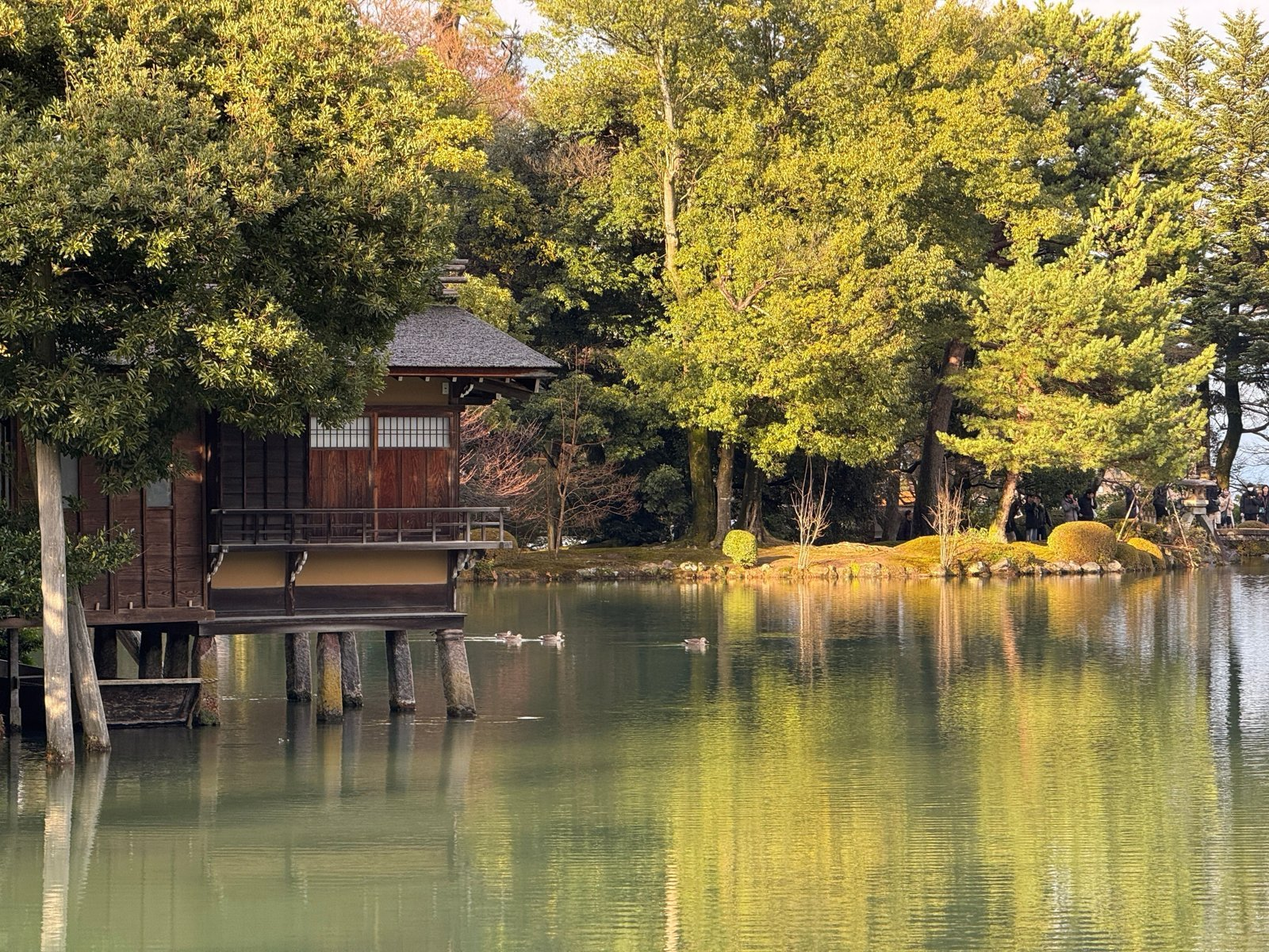
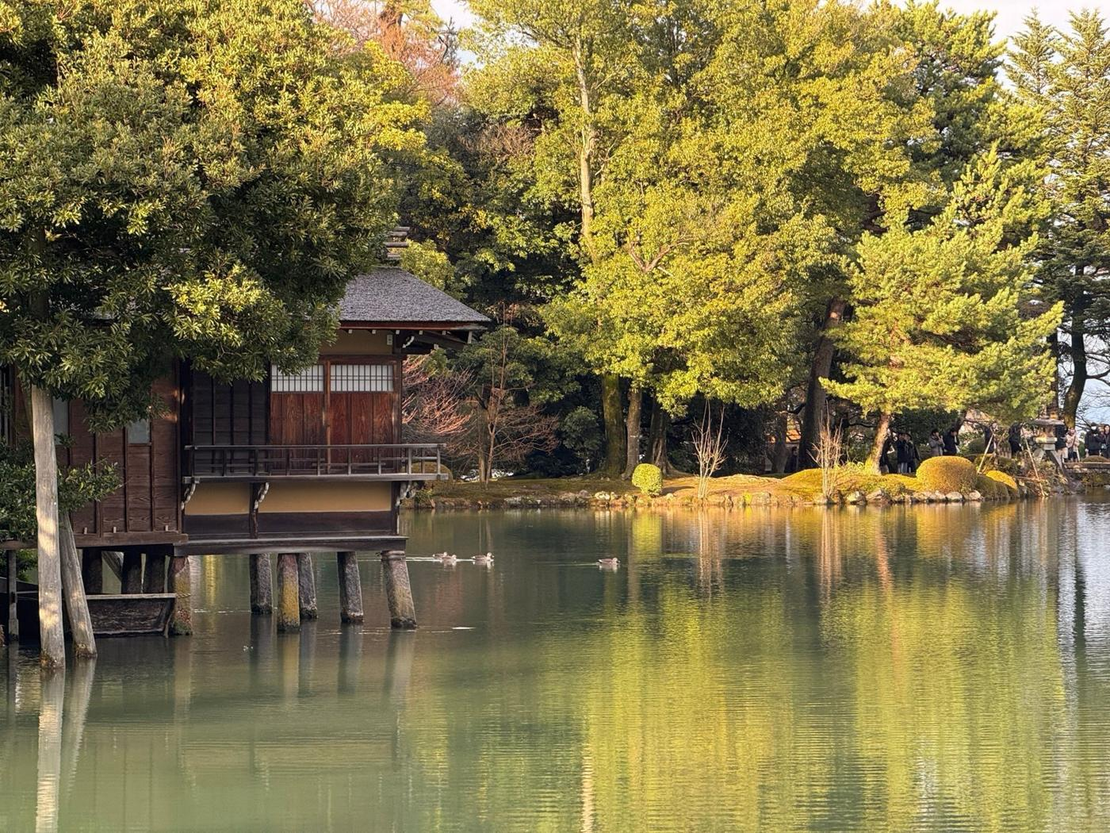
兩張大圖壓縮（民宿封面 540→282KB、圖庫 jpg 651→372KB）；文章排程加 12/14 台灣寄日本、12/21 年末大掃除與搬家旺季
Claude-Session: https://claude.ai/code/session_015ECPnYqpn8DhPT9yWTYa7e

diff --git a/article-topics.md b/article-topics.md
@@ -49,9 +49,10 @@
 >    | 2026-11-23 | 【周周指定・已寫好】在日本怎麼吃青菜？外食都是生菜沙拉（稿在 `drafts/a64-a65-veg-milk.json` 的 a64） | `life` |
 >    | 2026-11-30 | 【周周指定・時事】東京聖誕節怎麼過？（周周 2026-10-31：「12/25 聖誕，六本木點燈啊啥的先」「聖誕 12 月就可以發甚至提前」→ 提前到 11/30，點燈大多 11 月中就開始，大家正在排行程）六本木之丘櫸樹坂與東京中城的點燈、丸之內、表參道、惠比壽花園廣場等點燈地點與期間、聖誕市集、日本人怎麼過聖誕（肯德基、草莓蛋糕、情侶節日）、人潮與交通提醒。⚠ 各點燈的期間、時間、地點一律查 2026 年官方公告並附來源，查不到就不寫死。結尾自然帶到「住在六本木・麻布・表參道一帶是什麼感覺」與周周的物件專區、加 LINE。內文用一句話連到 `shibuya-halloween.html`、`tokyo-tower-area-property-price.html` | `life`・時事 |
 >    | 2026-12-07 | 【周周指定・已寫好】日本牛奶為什麼比台灣便宜？（稿在 `drafts/a64-a65-veg-milk.json` 的 a65） | `life` |
->    | **2026-12-26（六）** | 【周周指定・時事・特別日期】日本跨年／新年怎麼過？（周周 2026-10-31：「不只澀谷，往大了寫日本跨年」「在 12/26 再來做」）年越蕎麥麵、紅白、除夜之鐘、初詣（明治神宮等人潮與交通）、跨年倒數地點與管制（澀谷八公像封鎖・站前禁酒・電車末班延長或通宵要查各鐵路公司公告）、福袋與年菜（御節料理）、新年連假很多店休要先準備。⚠ 所有日期、管制、電車時刻都要查 2026 年官方最新公告附來源。這天不是週一，由另外排的單次排程寫（12/25 的 09:00 彙報會先提醒周周）。內文用一句話連到 `shibuya-halloween.html`、`shibuya-scramble-crossing.html` 和聖誕那篇 | `life`・時事 |
 >    | ~~2026-11-14（六）~~ ✅ 加碼上線 `send-package-japan-to-taiwan`（a68） | 【周周 11/14 核准提案】從日本寄東西回台灣怎麼寄：EMS／航空包裹／海運／國際 Air Packet、2024 起線上填單、日本不收與台灣禁止輸入的東西、2,000 元半年 6 次免稅。封面 Pexels 6348095（Liza Summer）＋米白霧面標題。⚠ 日本郵便官網容器連不到，運費沒有寫死，只附官方運費表連結；2027-02-01 費率調整公告已寫入 | `life` |
-    | ⏳ 待排 | 【周周 11/14 指定】**反向版：從台灣寄東西到日本怎麼寄**（「這個還蠻多人會查的」）——中華郵政 EMS／國際包裹、日本海關禁止品（肉製品、植物、醫藥品數量）、日本個人輸入免稅、寄件人與收件人注意事項。寫完內文互連 a68 | `life` |
+>    | 2026-12-14 | 【周周 11/14 指定・11/15 排定】**反向版：從台灣寄東西到日本怎麼寄**（「這個還蠻多人會查的」）——中華郵政 EMS／國際包裹、日本海關禁止品（肉製品、植物、醫藥品數量）、日本個人輸入免稅、寄件人與收件人注意事項。寫完內文互連 a68 | `life` |
+>    | 2026-12-21 | 【周周 11/15 核准提案】日本的年末大掃除與搬家旺季：12〜3 月搬家旺季要提早訂搬家公司、退租通知期（契約上常見 1 個月前，依契約）、年末大掃除的垃圾怎麼丟與年末年始收集暫停（各區公告）、大型垃圾提早預約。內文連到 a61 垃圾分類、a64 大型垃圾；結尾帶到「想趁換約前買房，可以先找周周聊」。⚠ 收集暫停日期查各區 2026 年公告附來源 | `life` |
+>    | **2026-12-26（六）** | 【周周指定・時事・特別日期】日本跨年／新年怎麼過？（周周 2026-10-31：「不只澀谷，往大了寫日本跨年」「在 12/26 再來做」）年越蕎麥麵、紅白、除夜之鐘、初詣（明治神宮等人潮與交通）、跨年倒數地點與管制（澀谷八公像封鎖・站前禁酒・電車末班延長或通宵要查各鐵路公司公告）、福袋與年菜（御節料理）、新年連假很多店休要先準備。⚠ 所有日期、管制、電車時刻都要查 2026 年官方最新公告附來源。這天不是週一，由另外排的單次排程寫（12/25 的 09:00 彙報會先提醒周周）。內文用一句話連到 `shibuya-halloween.html`、`shibuya-scramble-crossing.html` 和聖誕那篇 | `life`・時事 |
     ※ 青菜、牛奶兩篇 10/30 曾上線，周周說「不急、慢慢發」→ 當天撤下，稿與封面都留著（封面在 img-original/）。
 >    排完之後，回到下面 0.x 清單「區域・生活交錯」的順序，一樣每週一篇。
 >
